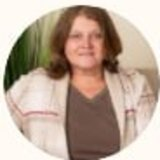
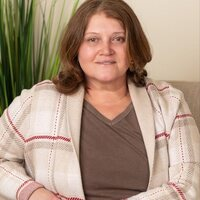
FB Comment CTA 1.0.1: works with themes that print the post outside the loop (footer fallback + JS placement); real editor photo
Claude-Session: https://claude.ai/code/session_01RxtRbBjTnYELx32eHRyBAw

diff --git a/fb-comment-cta/assets/fbcta.js b/fb-comment-cta/assets/fbcta.js
@@ -59,7 +59,17 @@
       .catch(function () { clearTimeout(timer); });
   }
 
+  function place(box) {
+    /* Block printed in the footer (theme without standard loop): move it right before «Missed the beginning?». */
+    if (!box.hasAttribute('data-move')) return;
+    var all = document.querySelectorAll('div[style*="max-width:640px;margin:40px auto 0"]');
+    var target = all.length ? all[all.length - 1] : null;
+    if (target && target.parentNode) { target.parentNode.insertBefore(box, target); }
+    box.removeAttribute('data-move');
+  }
+
   function init() {
+    document.querySelectorAll('.fbcta[data-move]').forEach(place);
     var boxes = document.querySelectorAll('.fbcta[data-fbcta]');
     if (!boxes.length) return;
     if (!('IntersectionObserver' in window)) { boxes.forEach(load); return; }

diff --git a/fb-comment-cta/fb-comment-cta.php b/fb-comment-cta/fb-comment-cta.php
@@ -2,7 +2,7 @@
 /**
  * Plugin Name: FB Comment CTA
  * Description: At the end of part 4 of a story shows an editorial request to comment on Facebook, with 3 ready-made comments unique to each visitor (generated centrally in n8n). Counts views and clicks per call-to-action variant.
- * Version: 1.0.0
+ * Version: 1.0.1
  * Update URI: https://github.com/boxa007/georgian_30lang
  */
 
@@ -11,7 +11,7 @@ if ( ! defined( 'ABSPATH' ) ) {
 }
 
 class FB_Comment_CTA {
-	const VERSION    = '1.0.0';
+	const VERSION    = '1.0.1';
 	const REPO       = 'boxa007/georgian_30lang';
 	const TAG_PREFIX = 'fbc-v';
 	const OPT        = 'fbc_settings';
@@ -22,6 +22,8 @@ class FB_Comment_CTA {
 
 	public function __construct() {
 		add_filter( 'the_content', array( $this, 'inject' ), 50 );
+		/* Fallback for themes that print the post outside the standard loop: print the block in the footer, JS moves it into place. */
+		add_action( 'wp_footer', array( $this, 'footer_fallback' ), 5 );
 		add_shortcode( 'fb_comment_cta', array( $this, 'shortcode' ) );
 		add_action( 'wp_enqueue_scripts', array( $this, 'assets' ) );
 		add_action( 'admin_menu', array( $this, 'admin_menu' ) );
@@ -142,7 +144,7 @@ class FB_Comment_CTA {
 	}
 
 	public function inject( $content ) {
-		if ( $this->printed || ! in_the_loop() || ! is_main_query() || ! $this->visible() ) {
+		if ( $this->printed || ! $this->visible() || (int) get_the_ID() !== (int) get_queried_object_id() ) {
 			return $content;
 		}
 		$pos = strrpos( $content, self::MARKER );
@@ -150,6 +152,17 @@ class FB_Comment_CTA {
 			return $content; // not a part 4
 		}
 		return substr( $content, 0, $pos ) . $this->block( $content ) . substr( $content, $pos );
+	}
+
+	public function footer_fallback() {
+		if ( $this->printed || ! $this->visible() ) {
+			return;
+		}
+		$post = get_queried_object();
+		if ( ! $post || empty( $post->post_content ) || false === strpos( $post->post_content, self::MARKER ) ) {
+			return;
+		}
+		echo $this->block( apply_filters( 'fbc_story_source', $post->post_content ), true ); // phpcs:ignore
 	}
 
 	public function shortcode() {
@@ -160,7 +173,7 @@ class FB_Comment_CTA {
 		return $this->block( $post ? apply_filters( 'fbc_story_source', $post->post_content ) : '' );
 	}
 
-	private function block( $content ) {
+	private function block( $content, $move = false ) {
 		$this->printed = true;
 		$s    = $this->settings();
 		$t    = self::texts( $s['lang'] );
@@ -182,7 +195,7 @@ class FB_Comment_CTA {
 		$copy   = '<svg viewBox="0 0 24 24" width="18" height="18" aria-hidden="true"><path fill="currentColor" d="M8 3h9a3 3 0 0 1 3 3v9a3 3 0 0 1-3 3H8a3 3 0 0 1-3-3V6a3 3 0 0 1 3-3zm0 2a1 1 0 0 0-1 1v9a1 1 0 0 0 1 1h9a1 1 0 0 0 1-1V6a1 1 0 0 0-1-1H8zM3 8a1 1 0 0 1 1 1v9a2 2 0 0 0 2 2h9a1 1 0 1 1 0 2H6a4 4 0 0 1-4-4V9a1 1 0 0 1 1-1z"/></svg>';
 		ob_start();
 		?>
-		<div class="fbcta" data-fbcta="<?php echo esc_attr( wp_json_encode( $data ) ); ?>" hidden>
+		<div class="fbcta" data-fbcta="<?php echo esc_attr( wp_json_encode( $data ) ); ?>"<?php echo $move ? ' data-move="1"' : ''; ?> hidden>
 			<div class="fbcta-head">
 				<img class="fbcta-avatar" src="<?php echo esc_url( $avatar ); ?>" alt="" width="88" height="88" loading="lazy">
 				<div><div class="fbcta-title"></div><div class="fbcta-sub"><?php echo esc_html( $t['from'] ); ?></div></div>
